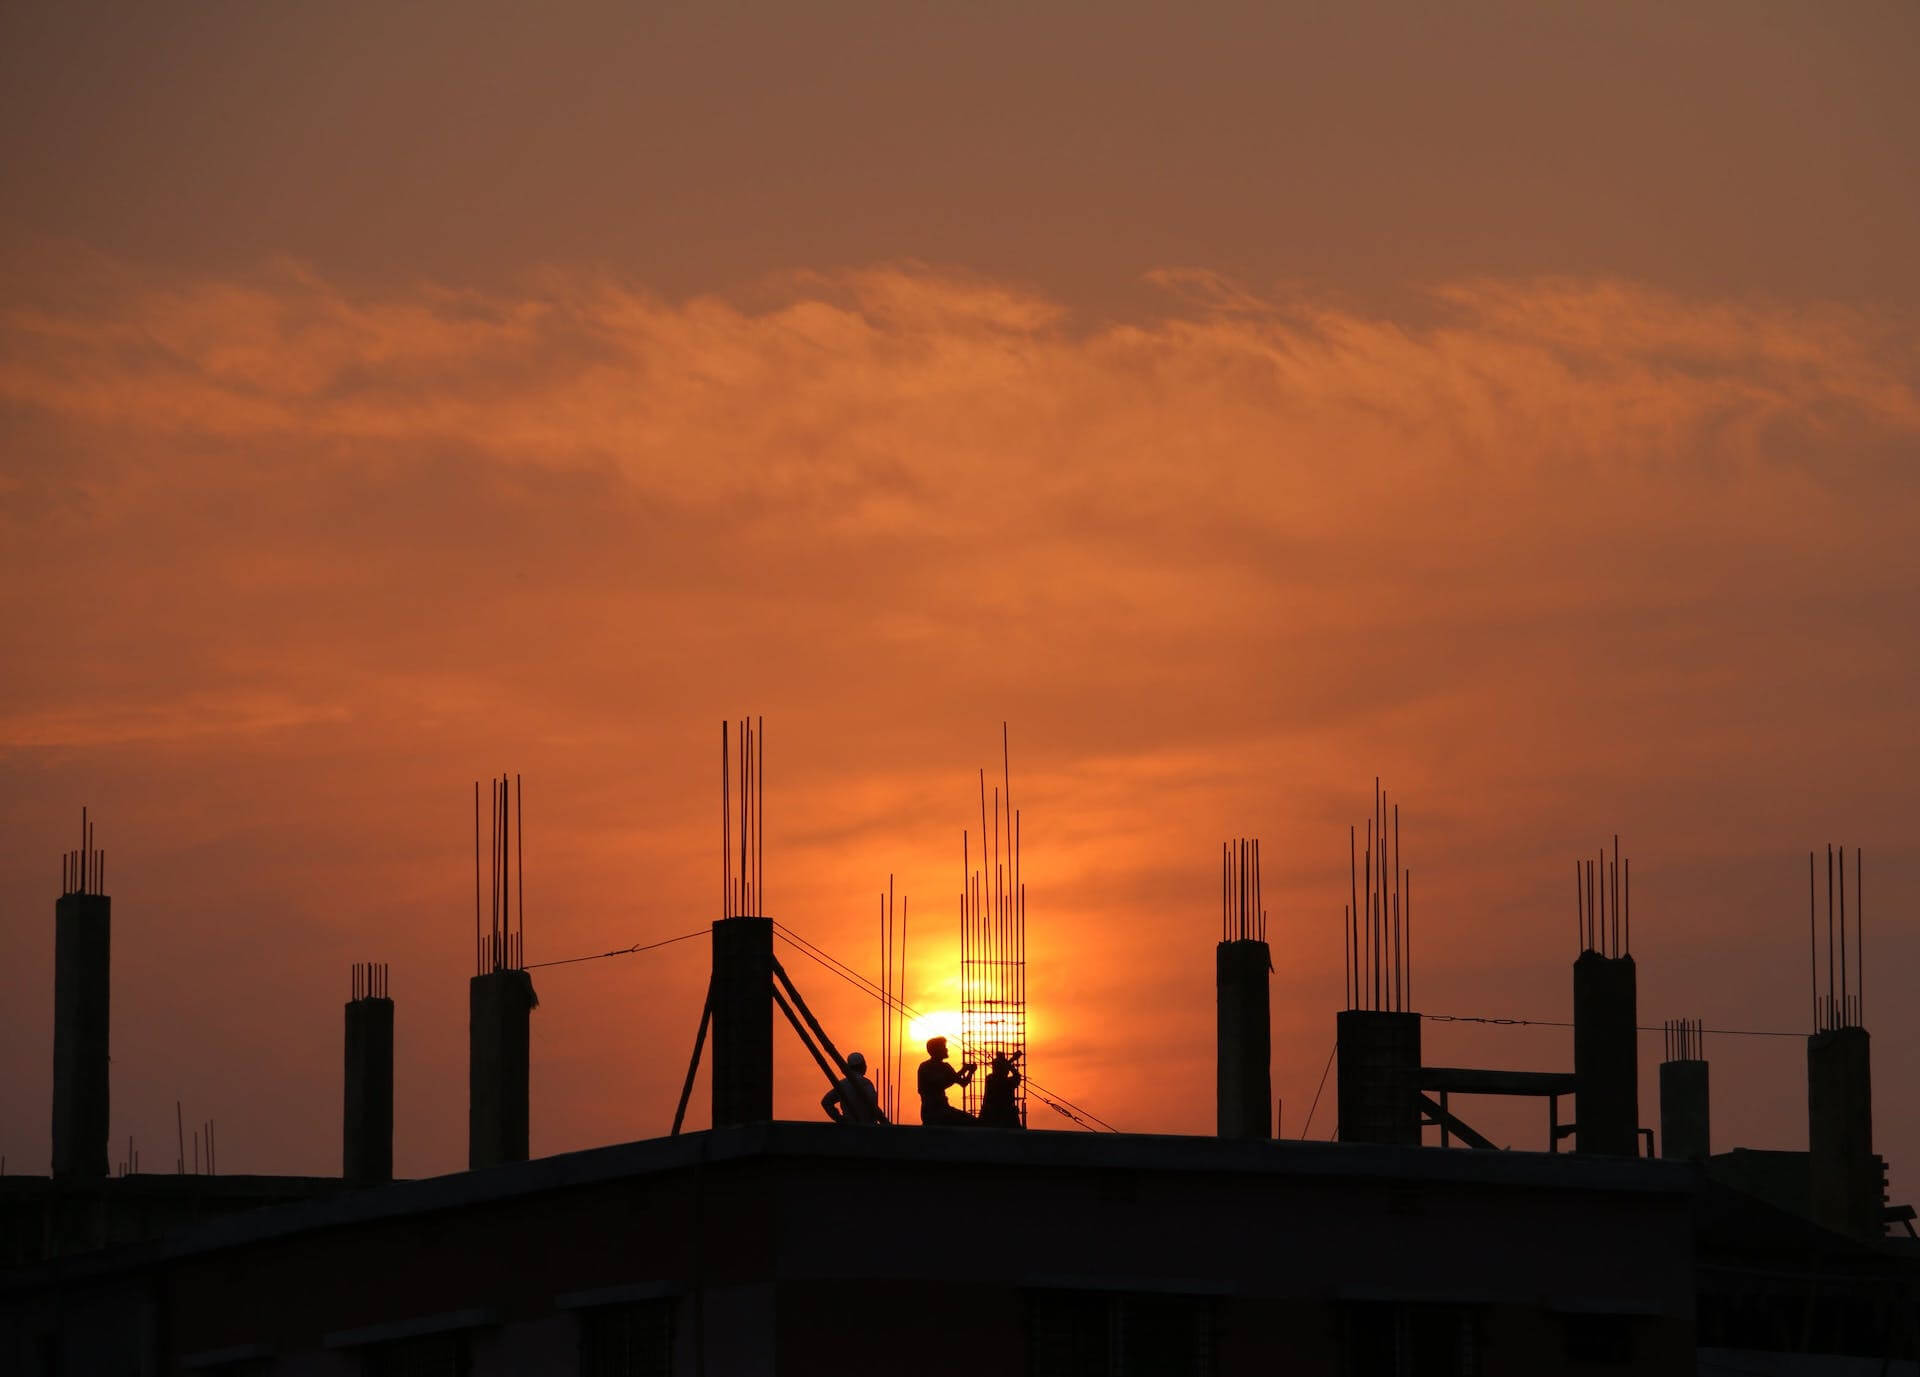
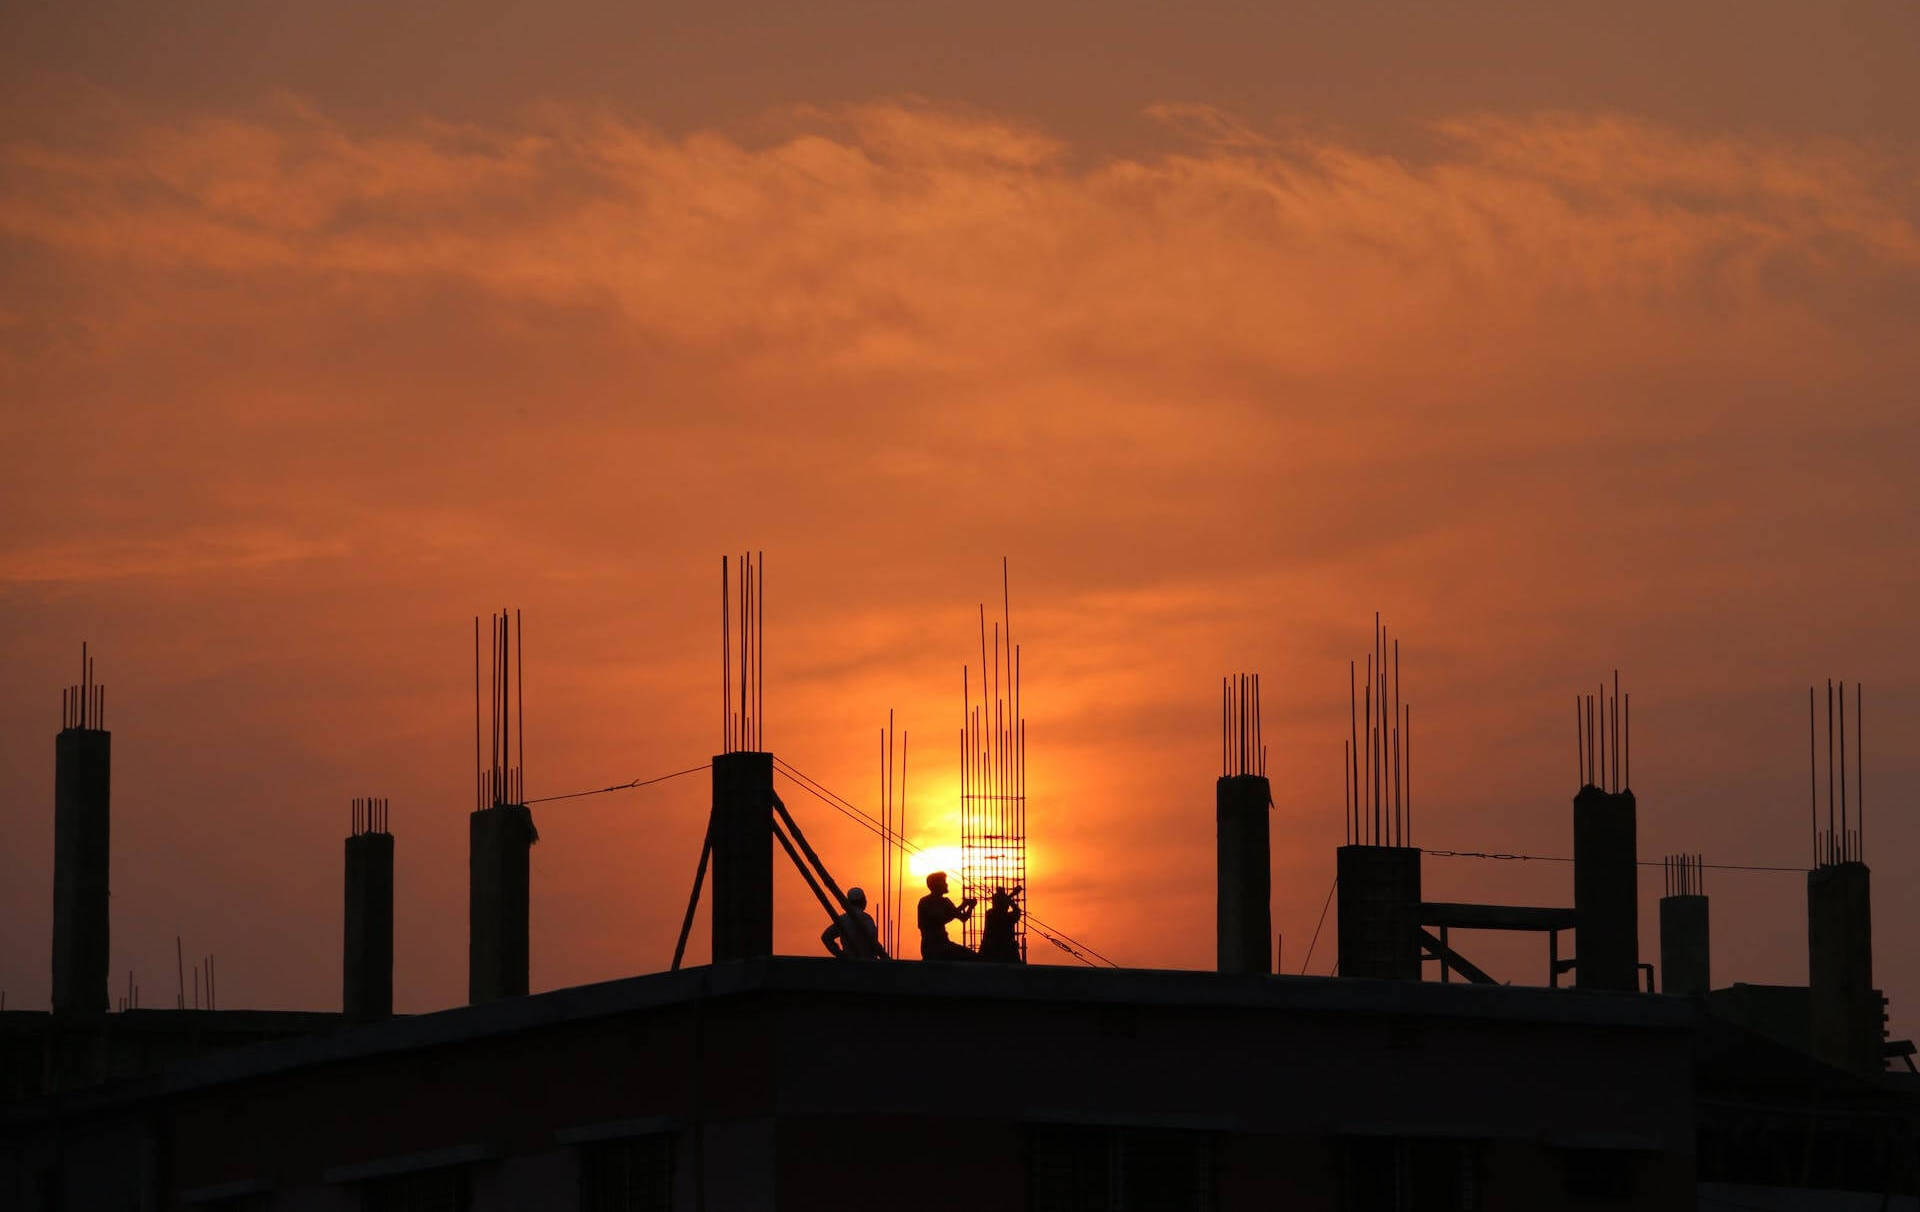
Make the silhouette hero image better on narrower displays

diff --git a/components/hero/styles.scss b/components/hero/styles.scss
@@ -1,7 +1,7 @@
 .background {
   margin-top: 7rem;
   width: 100%;
-  height: 58rem;
+  height: 42.5rem;
   max-height: 100%;
 
   background: #8c5137 url(/static/silhouette.jpg) no-repeat center;
